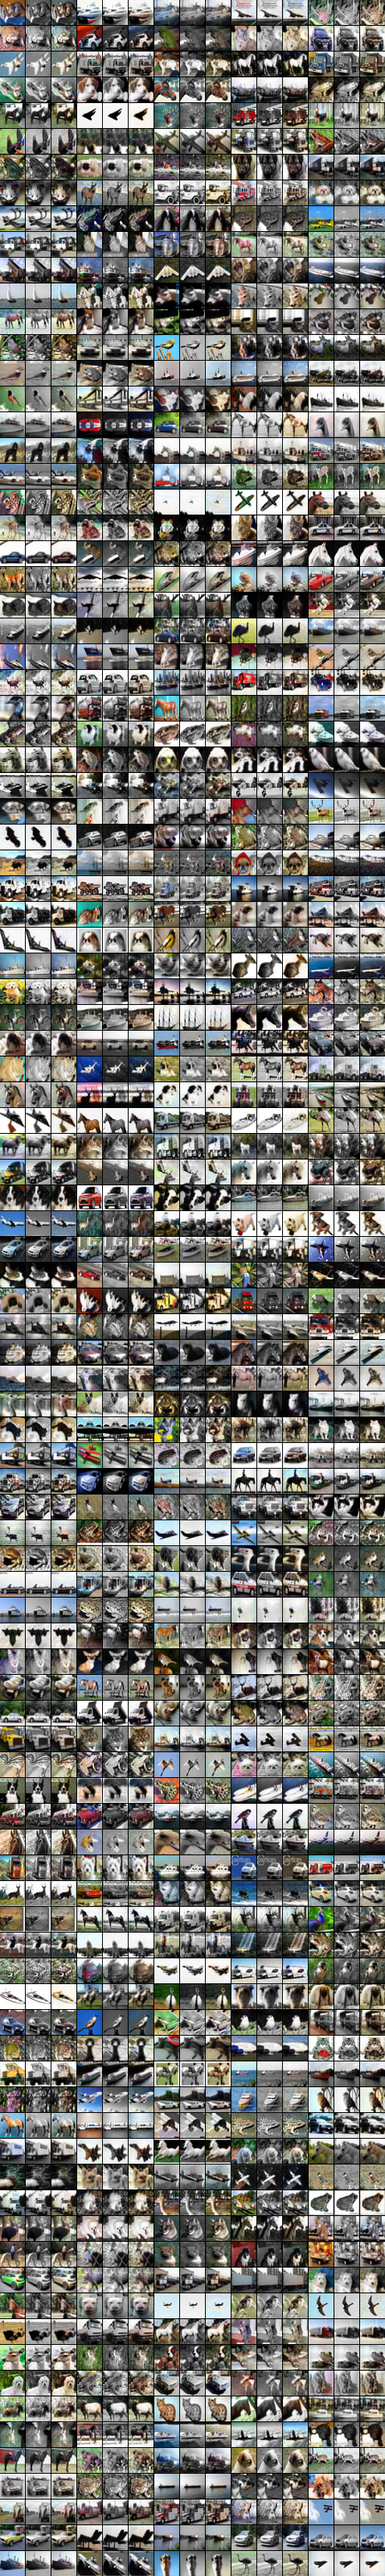
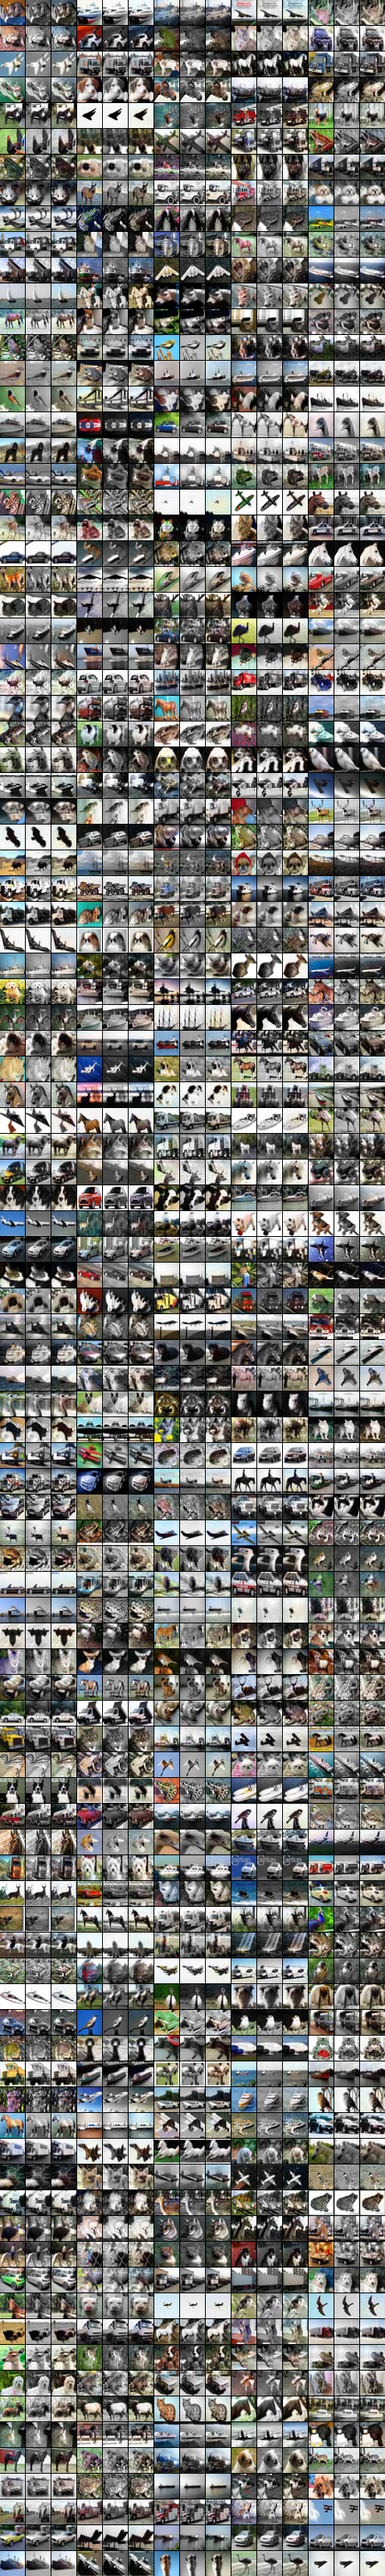
update

diff --git a/codes/get_output.py b/codes/get_output.py
@@ -1,0 +1,67 @@
+import frame
+import train
+import random
+import theano
+import lasagne
+import numpy as np
+
+cnt = 500
+batch_size = 100
+load_model_name = 'cnn-iter72.pickle'
+learning_rate = 0.0002
+
+input_var = theano.tensor.tensor4('X')
+target_var = theano.tensor.tensor4('Y')
+index = theano.tensor.lscalar('index')
+
+# Build network
+network, prediction = train.build_cnn(input_var)
+
+
+# Create mapping
+mapping = theano.function(inputs = [input_var], outputs = prediction)
+
+# Load model
+model = frame.load_model(network = network, file_name = load_model_name, path = '/common/users/sl1560/temp', )
+learning_rate = model['learning_rate']
+iteration = model['iteration']
+params = lasagne.layers.get_all_params(network, trainable = True)
+
+# Load validation data
+validation_dataset_x = frame.load_validation_dataset()[0].astype(theano.config.floatX)
+validation_dataset_x = theano.shared(validation_dataset_x, borrow = True)
+validation_dataset_size = validation_dataset_x.get_value(borrow = True).shape[0]
+validation_batches_size = validation_dataset_size / batch_size
+
+# Functions for validation
+val_loss, val_updates = train.get_loss_and_updates(network, input_var, prediction, learning_rate, )
+f_validate = theano.function([index], val_loss, givens = {input_var:validation_dataset_x[index * batch_size:(index + 1) * batch_size]})
+
+# Validation
+print('Started validation')
+loss_history = []
+for batch_index in range(int(validation_batches_size)):
+    loss_history.append(f_validate(batch_index))
+
+print('Validating...')
+print('Mean validation loss = %f' % np.mean(loss_history))
+
+validaion_sample = np.array(validation_dataset_x.eval())
+np.random.shuffle(validaion_sample)
+
+frame.plot_sample(
+    images = validaion_sample[0:cnt],
+    mapping = mapping,
+    model_name = 'cnn-71',
+    iteration = iteration,
+    images_per_row = 5,
+    path = 'pics',
+)
+frame.plot_filter(
+    filters = lasagne.layers.get_all_param_values(network)[0],
+    model_name = 'cnn-71',
+    iteration = iteration,
+    repeat = 10,
+    filter_per_row = 8,
+    path = 'pics',
+)

diff --git a/codes/frame.py b/codes/frame.py
@@ -54,8 +54,8 @@ def load_model(network, file_name, path = 'models'):
 
     with open(file_path, 'rb') as file:
         dict = pickle.load(file)
-        lasagne.layers.set_all_param_values(network, dict[b'params'])
-    return {'iteration': dict[b'iteration'], 'learning_rate': dict[b'learning_rate']}
+        lasagne.layers.set_all_param_values(network, dict['params'])
+    return {'iteration': dict['iteration'], 'learning_rate': dict['learning_rate']}
 
 def plot_sample(images, mapping, model_name, iteration, images_per_row = 5, path = 'pics'):
     # Plot images to file
@@ -89,7 +89,7 @@ def plot_sample(images, mapping, model_name, iteration, images_per_row = 5, path
     G = sample_images[:, 1, :, :]
     B = sample_images[:, 2, :, :]
 
-    sample_images = reshape_images_for_output((R, G, B, None), image_shape = (height, width), tile_shape = (len // images_per_row, 3 * images_per_row), tile_gap = (1, 1))
+    sample_images = reshape_images_for_output((R, G, B, None), image_shape = (height, width), tile_shape = (len // images_per_row, 3 * images_per_row), tile_gap = (2, 2))
 
     img = PIL.Image.fromarray(sample_images)
     img_name = ('Iteration %d.png' % iteration)
@@ -172,7 +172,7 @@ def load_train_dataset():
         train_dataset_x.append(batch_images)
         train_dataset_y = np.append(train_dataset_y, batch_labels)
 
-    train_dataset_x = np.vstack(train_dataset_x) / 256.0
+    train_dataset_x = np.vstack(train_dataset_x) / 255.0
     train_dataset_x = train_dataset_x.reshape(train_dataset_x.shape[0], 3, 32, 32)
 
     return (train_dataset_x, train_dataset_y)
@@ -183,7 +183,7 @@ def load_validation_dataset():
     dict = pickle.load(file, encoding='bytes')
     file.close()
 
-    val_images = dict[b'data'] / 256.0
+    val_images = dict[b'data'] / 255.0
     val_labels = np.array(dict[b'labels'])
 
     val_images = val_images.reshape(val_images.shape[0], 3, 32, 32)
